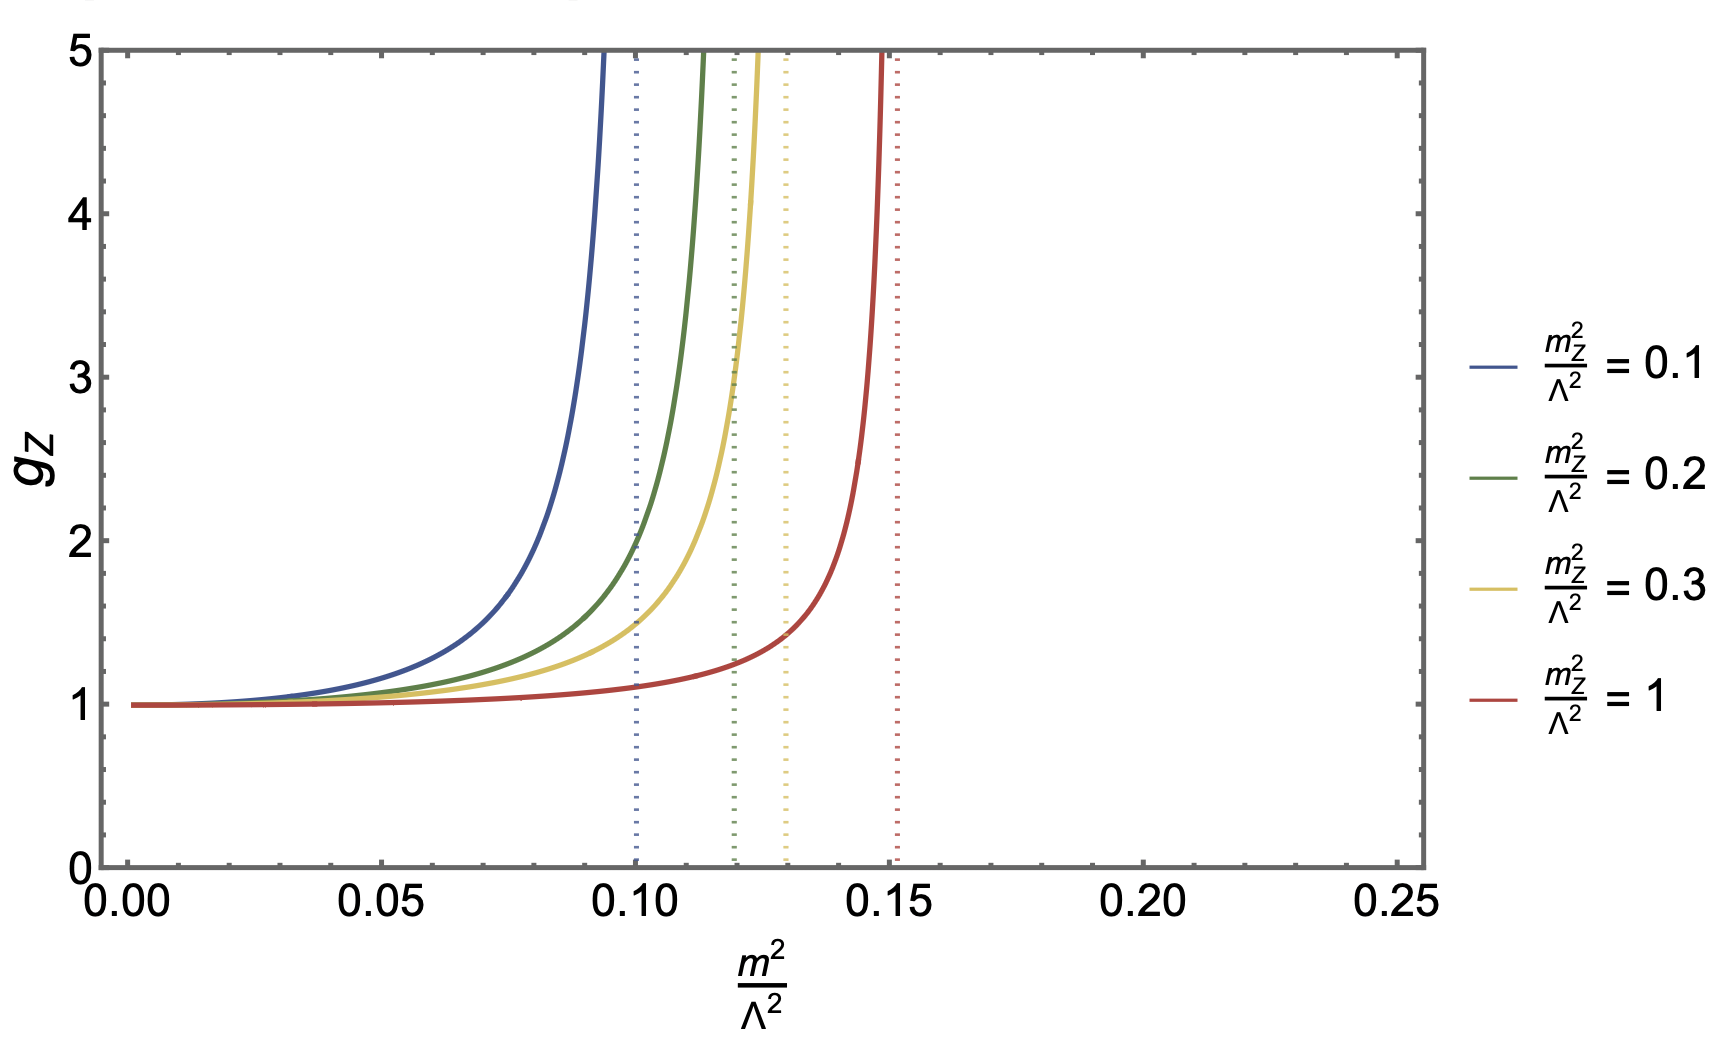
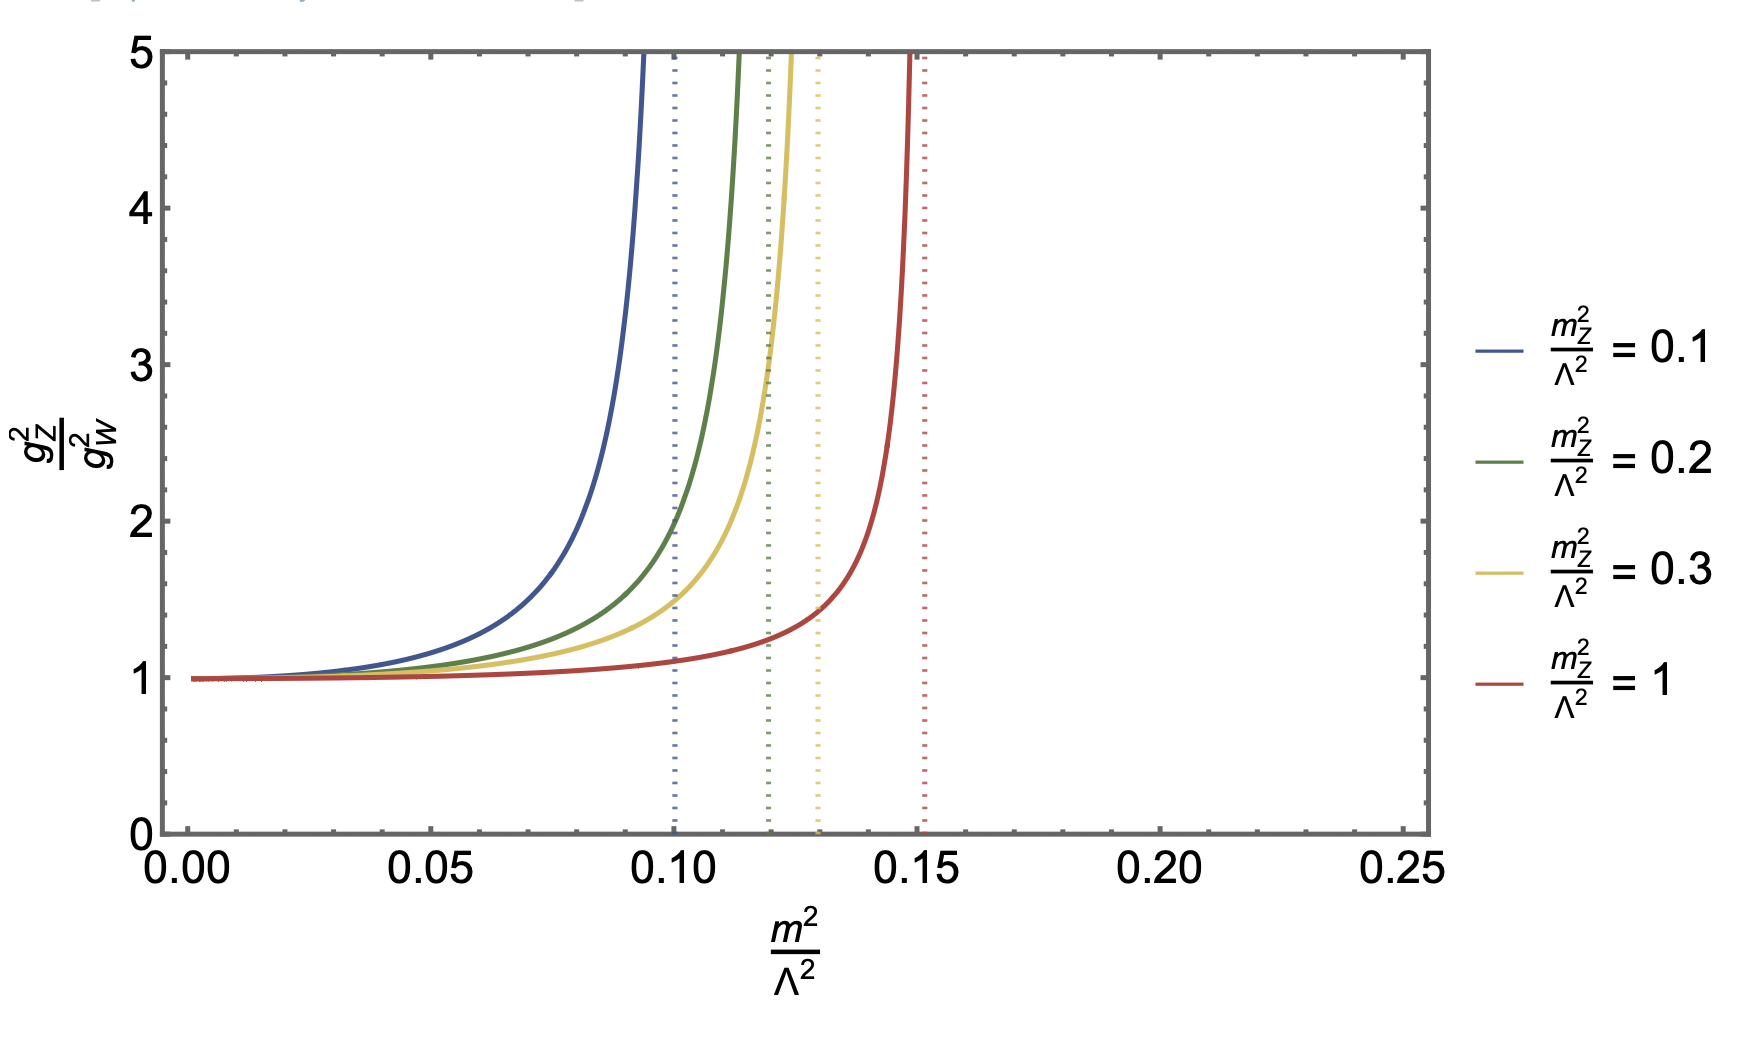
Wrote correct arcs. Changed some plots

Changed region(s): [[0.0, 0.0312, 0.9965, 0.9669], [0.872, 0.2807, 0.9965, 0.3743]]

diff --git a/chapters/positivity.tex b/chapters/positivity.tex
@@ -101,15 +101,11 @@ the imaginary part of the full amplitude, which will play a central role in what
     \Im \mathcal{M}(s,t,u)
     =
     \sum_{\substack{J \,\text{even}}}
-    16\pi(2J+1)\,
+    16\pi(2J+1)\,  \sqrt{ \frac{s}{s-4m^2} } \;
     \mathcal{P}_J\left(1+\frac{2t}{s-4m^2}\right)
     \rho_J(s).
     \label{eq:highendecomp}
 \end{equation}
-
-\begin{Todo}
-Comprobar raíz
-\end{Todo}
     
 
 Finally, the unitarity condition on the $S$-matrix translates into the following bounds on the spectral densities:
@@ -181,9 +177,12 @@ This result is remarkable, as it provides a second, independent way of computing
 \label{sec:sumrules}
 
 Inserting in the expansion from \Cref*{eq:highendecomp}, the arcs can be rewritten as 
-\begin{eqnarray}
-    a_n(t) = \sum_{J \text{ even}} \int_{\Lambda^2-2m^2}^{\infty} \frac{d\hat{s}}{\hat{s}}  32  (2 J + 1) \mathcal{P}_J \left( 1 + \frac{2t}{\hat{s}-2m^2} \right) \frac{2\hat{s}+t}{\hat{s}+t}\frac{\rho_J(\hat{s})}{[\hat{s}(\hat{s}+t)]^{n/2}}.
-\end{eqnarray}
+\begin{equation}
+    \begin{split}
+    a_n(t) = \sum_{J \text{ even}} \int_{\Lambda^2-2m^2}^{\infty} \frac{d\hat{s}}{\hat{s}} \, 32 \, (2 J + 1) \sqrt{\frac{\hat{s} + 2m^2}{\hat{s} - 2m^2}} \cdot \\
+    \cdot \mathcal{P}_J \left( 1 + \frac{2t}{\hat{s}-2m^2} \right) \frac{2\hat{s}+t}{\hat{s}+t}\frac{\rho_J(\hat{s})}{[\hat{s}(\hat{s}+t)]^{n/2}}.
+    \end{split}
+    \end{equation}
 It is convenient to introduce the following high-energy average of a function $F(s,J)$:
 \begin{eqnarray}
     \langle F(\hat{s},J) \rangle
@@ -210,6 +209,7 @@ With this notation, the arcs  can be compactly written as
     }{
         [\hat{s}(\hat{s}+t)]^{n/2}
     }
+    \sqrt{\frac{\hat{s} + 2m^2}{\hat{s} - 2m^2}}
     \right\rangle
     \;\geq\; 0 \, .
 \end{equation}

diff --git a/chapters/ww_scattering.tex b/chapters/ww_scattering.tex
@@ -189,12 +189,9 @@ In this section, we consider fixed-$u$ dispersion relations. The crossed process
 \subsection{Beyond the Standard Model}
 Keeping only the Standard Model operators, the relevant arcs in the $u \to 0$ limit are 
 \begin{align}
-    a_1^{(00)} &= g_Z\frac{4 g_W^2}{m_Z^2}, \\
-    a_2^{(00)} &= (g_Z - 1) \frac{g_W^2}{2m^4}.
+    a_1^{(00)} &= 4  \left( \frac{g_Z^2 - g_W^2}{m^2} + \frac{g_Z^2 }{m_Z^2} \right), \\
+    a_2^{(00)} &= \frac{g_Z^2 - g_W^2}{2m^4}.
 \end{align}
-\begin{Question}
-    Estos arcos están bien???
-\end{Question}
 From $a_2^{(00)} \geq 0$, we recover the condition that $g_Z \geq 1$. Using the relation $a_2 (\Lambda^2 - 2m^2) \leq a_1$, we find the upper bounds for $g_Z$ shown in figure \Cref*{fig:nomz}.
 \begin{figure}[hbtp]
     \begin{center}
@@ -208,11 +205,11 @@ As we can see, taking the cutoff to the infinity implies that $g_Z = 1$, which b
 It is also interesting to study the $m_Z^2 = m^2$ case. For this, the allowed region for $m^2$ is shown in \Cref*{fig:withmz}. The cutoff can not be taken to $\infty$ unless we choose the Standard Model coupling, $g_Z$. If $m^2/ \Lambda^2 \geq 1/10$, the setup is consistent for any value of $g_Z$. Adding information from the first order in $u$ does not improve these bounds.
 \begin{figure}[hbtp]
     \begin{center}
-        \includegraphics[width = 0.85 \textwidth]{../figures/image.png}
+        \includegraphics[width = 0.85 \textwidth]{../figures/image.pdf}
     \end{center}
     \caption{Allowed region for $m^2$ for differentes values in $g_Z$, only including dimension 4 operators and assuming the isospin-2 amplitude is analytical.}
     \label{fig:withmz}
-\end{figure} 
+\end{figure}
 \subsection{Higher-Order Operators}
 Lastly, we study how these bounds are modified when including 6 dimensional operators. Still in the $m^2 = m_Z^2$ regime, the relevant arcs are 
 \begin{Todo}